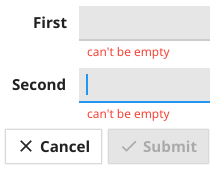
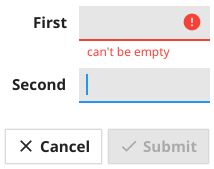
fix form hint for widget.Entry's

Changed region(s): [[0.3645, 0.2071, 0.9813, 0.2663], [0.3925, 0.6509, 0.8131, 0.7101], [0.8411, 0.0592, 0.9533, 0.1775]]

diff --git a/widget/form.go b/widget/form.go
@@ -159,21 +159,26 @@ func (f *Form) checkValidation(err error) {
 }
 
 func (f *Form) setUpValidation(widget fyne.CanvasObject, i int) {
+	updateValidation := func(err error) {
+		if err == errFormItemInitialState {
+			return
+		}
+		f.Items[i].validationError = err
+		f.Items[i].invalid = err != nil
+		f.checkValidation(err)
+		f.updateHelperText(f.Items[i])
+	}
 	if w, ok := widget.(fyne.Validatable); ok {
 		f.Items[i].invalid = w.Validate() != nil
-		if e, ok := w.(*Entry); ok && e.Validator != nil && f.Items[i].invalid {
-			// set initial state error to guarantee next error (if triggers) is always different
-			e.SetValidationError(errFormItemInitialState)
-		}
-		w.SetOnValidationChanged(func(err error) {
-			if err == errFormItemInitialState {
-				return
+		if e, ok := w.(*Entry); ok {
+			e.onFocusGained = func() { updateValidation(e.validationError) }
+			e.onFocusLost = func() { updateValidation(e.validationError) }
+			if e.Validator != nil && f.Items[i].invalid {
+				// set initial state error to guarantee next error (if triggers) is always different
+				e.SetValidationError(errFormItemInitialState)
 			}
-			f.Items[i].validationError = err
-			f.Items[i].invalid = err != nil
-			f.checkValidation(err)
-			f.updateHelperText(f.Items[i])
-		})
+		}
+		w.SetOnValidationChanged(updateValidation)
 	}
 }
 
@@ -181,7 +186,11 @@ func (f *Form) updateHelperText(item *FormItem) {
 	if item.helperOutput == nil {
 		return // testing probably, either way not rendered yet
 	}
-	if item.validationError == nil {
+	showHintIfError := false
+	if e, ok := item.Widget.(*Entry); ok && (!e.dirty || e.focused) {
+		showHintIfError = true
+	}
+	if item.validationError == nil || showHintIfError {
 		item.helperOutput.Text = item.HintText
 		item.helperOutput.Color = theme.PlaceHolderColor()
 	} else {

diff --git a/widget/entry.go b/widget/entry.go
@@ -65,6 +65,11 @@ type Entry struct {
 	content     *entryContent
 	scroll      *widget.Scroll
 
+	// useful for Form validation (as the error text should only be shown when
+	// the entry is unfocused)
+	onFocusGained func()
+	onFocusLost   func()
+
 	// selectRow and selectColumn represent the selection start location
 	// The selection will span from selectRow/Column to CursorRow/Column -- note that the cursor
 	// position may occur before or after the select start position in the text.
@@ -297,6 +302,9 @@ func (e *Entry) FocusGained() {
 		e.dirty = true
 		e.focused = true
 	})
+	if e.onFocusGained != nil {
+		e.onFocusGained()
+	}
 }
 
 // FocusLost is called when the Entry has had focus removed.
@@ -307,6 +315,9 @@ func (e *Entry) FocusLost() {
 		e.focused = false
 		e.selectKeyDown = false
 	})
+	if e.onFocusLost != nil {
+		e.onFocusLost()
+	}
 }
 
 // Hide hides the entry.

diff --git a/widget/form_test.go b/widget/form_test.go
@@ -213,9 +213,6 @@ func TestForm_EntryValidation_FirstTypeValid(t *testing.T) {
 	w := test.NewWindow(form)
 	defer w.Close()
 
-	assert.Equal(t, errFormItemInitialState, entry1.validationError)
-	assert.Equal(t, errFormItemInitialState, entry2.validationError)
-
 	test.AssertImageMatches(t, "form/validation_entry_first_type_initial.png", w.Canvas().Capture())
 
 	test.Type(entry1, "H")
